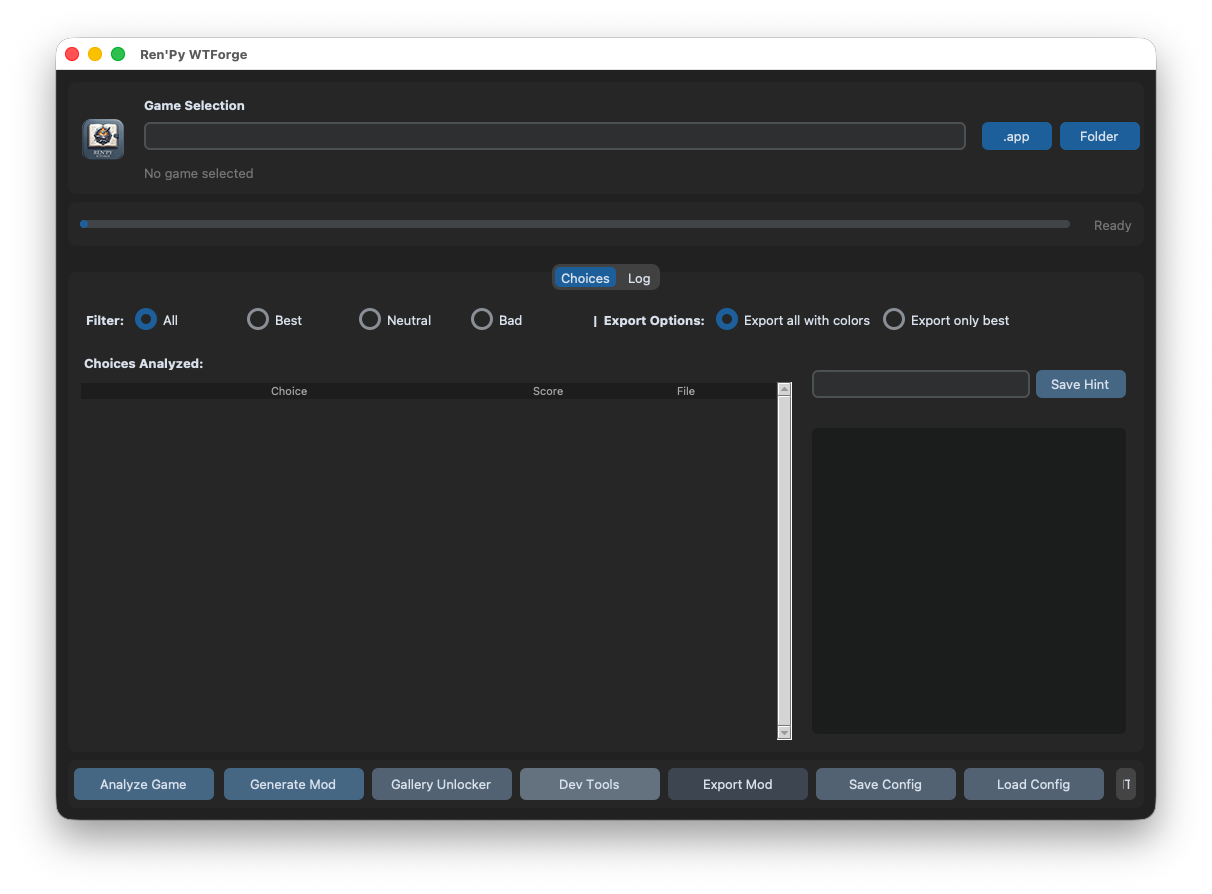
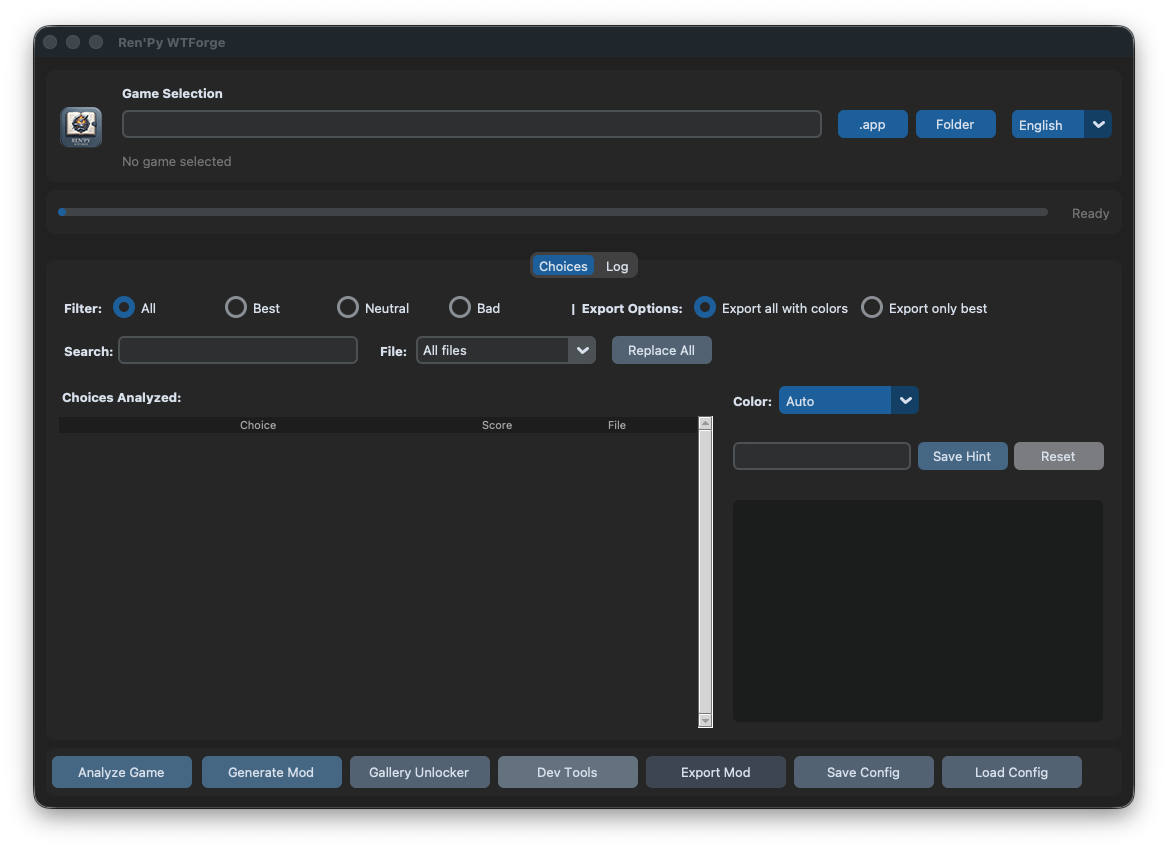
Remove obsolete Save Config / Load Config buttons and global config methods

diff --git a/wt_tool.py b/wt_tool.py
@@ -590,10 +590,6 @@ class RenPyWTTool:
                       fg_color="#6f7d8a", hover_color="#5e6b75", **btn_cfg).pack(side="left", padx=4, pady=8)
         ctk.CTkButton(frame, text=self.t('export_mod'), command=self.export_mod,
                       fg_color="#464e5a", hover_color="#353d47", **btn_cfg).pack(side="left", padx=4, pady=8)
-        ctk.CTkButton(frame, text=self.t('save_config'), command=self.save_config,
-                      fg_color="#5c6d7d", hover_color="#4a5966", **btn_cfg).pack(side="left", padx=4, pady=8)
-        ctk.CTkButton(frame, text=self.t('load_config'), command=self.load_config,
-                      fg_color="#5c6d7d", hover_color="#4a5966", **btn_cfg).pack(side="left", padx=4, pady=8)
 
     def browse_app(self):
         path = filedialog.askopenfilename(title=self.t('select_app'))
@@ -1046,66 +1042,6 @@ class RenPyWTTool:
             self.log(self.t('export_mod_done', export_dir.parent.parent))
         except Exception as e:
             messagebox.showerror(self.t('error'), self.t('export_mod_error', str(e)))
-
-    def save_config(self):
-        """Salva configurazione"""
-        config_path = Path(__file__).parent / "config" / "choices_config.json"
-        config_path.parent.mkdir(exist_ok=True)
-        
-        # Salva hint_text_custom indicizzati per choice_text (chiave stabile)
-        hint_edits = {}
-        for idx, choice in enumerate(self.choices):
-            if choice.get('hint_text_custom'):
-                hint_edits[choice['choice_text']] = choice['hint_text_custom']
-        
-        # Salva override colore
-        color_edits = {}
-        for idx, choice in enumerate(self.choices):
-            if choice.get('color_override'):
-                color_edits[choice['choice_text']] = choice['color_override']
-        
-        config = {
-            'hint_edits': hint_edits,
-            'color_edits': color_edits,
-            'export_mode': self.export_mode
-        }
-        
-        with open(config_path, 'w', encoding='utf-8') as f:
-            json.dump(config, f, indent=2, ensure_ascii=False)
-            
-        messagebox.showinfo("Saved", self.t('config_saved', config_path))
-        
-    def load_config(self):
-        """Carica configurazione"""
-        config_path = Path(__file__).parent / "config" / "choices_config.json"
-        
-        if not config_path.exists():
-            messagebox.showwarning("Warning", self.t('no_config'))
-            return
-            
-        with open(config_path, 'r', encoding='utf-8') as f:
-            config = json.load(f)
-        
-        hint_edits = config.get('hint_edits', {})
-        self.export_mode = config.get('export_mode', 'all')
-        self.export_var.set(self.export_mode)
-        
-        # Applica hint_text_custom alle scelte correnti
-        for choice in self.choices:
-            ct = choice['choice_text']
-            if ct in hint_edits:
-                choice['hint_text_custom'] = hint_edits[ct]
-        
-        # Applica override colore
-        color_edits = config.get('color_edits', {})
-        for choice in self.choices:
-            ct = choice['choice_text']
-            if ct in color_edits:
-                choice['color_override'] = color_edits[ct]
-        
-        self.apply_filter()
-        messagebox.showinfo("Loaded", self.t('config_loaded', len(hint_edits)))
-
 
 def main():
     root = ctk.CTk()
